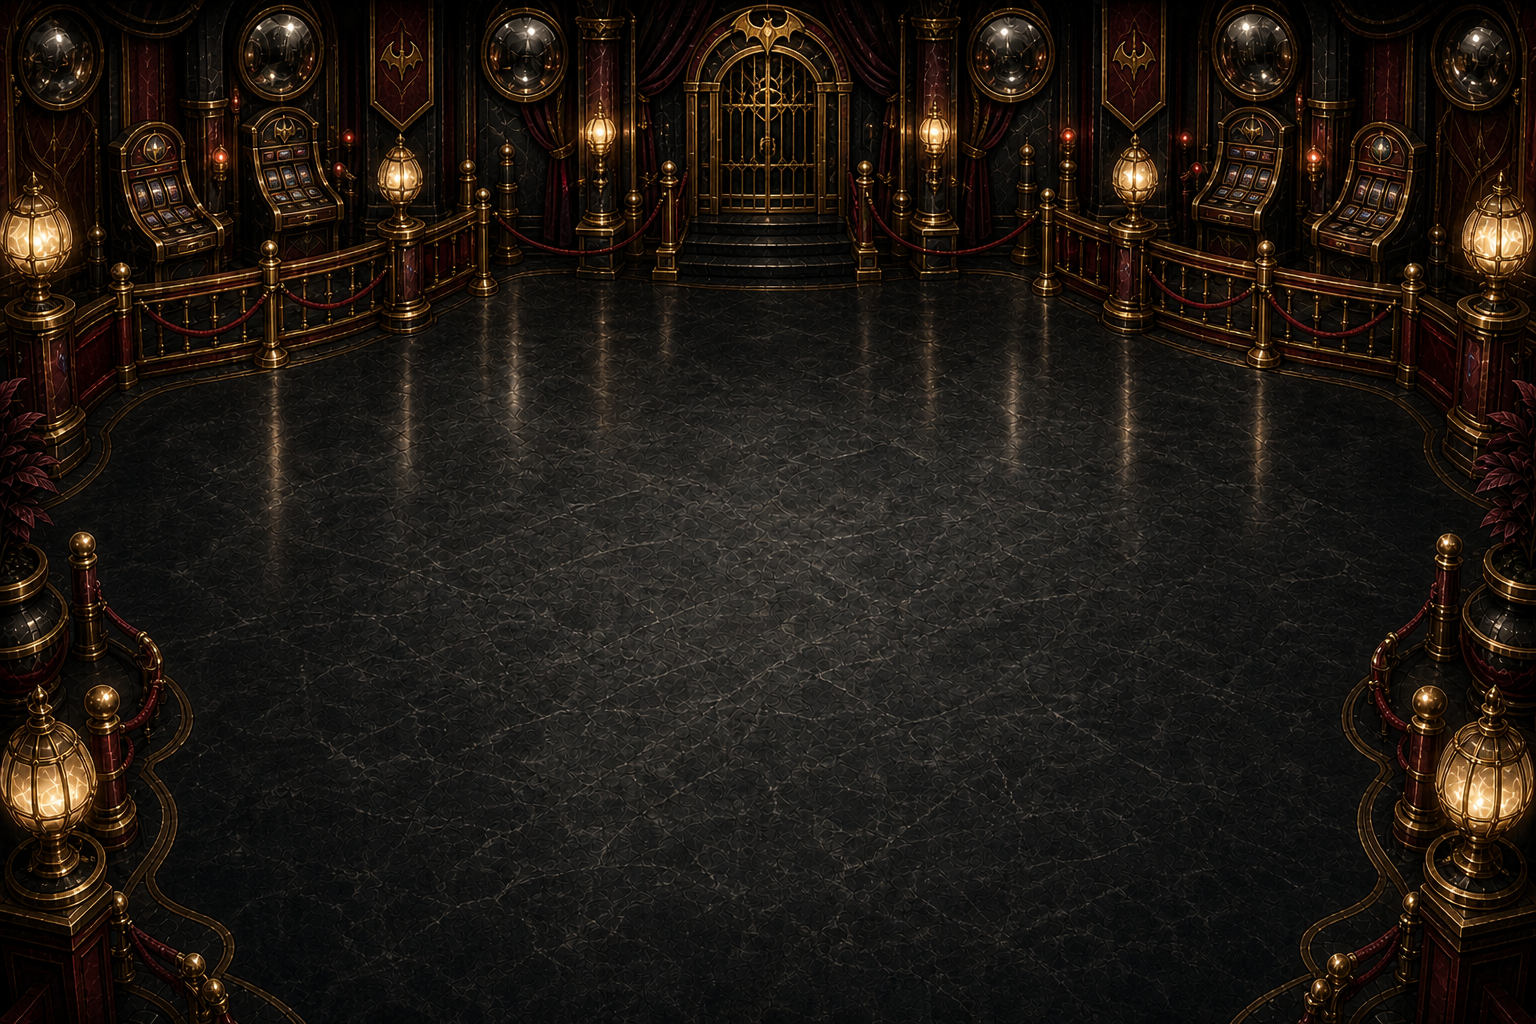
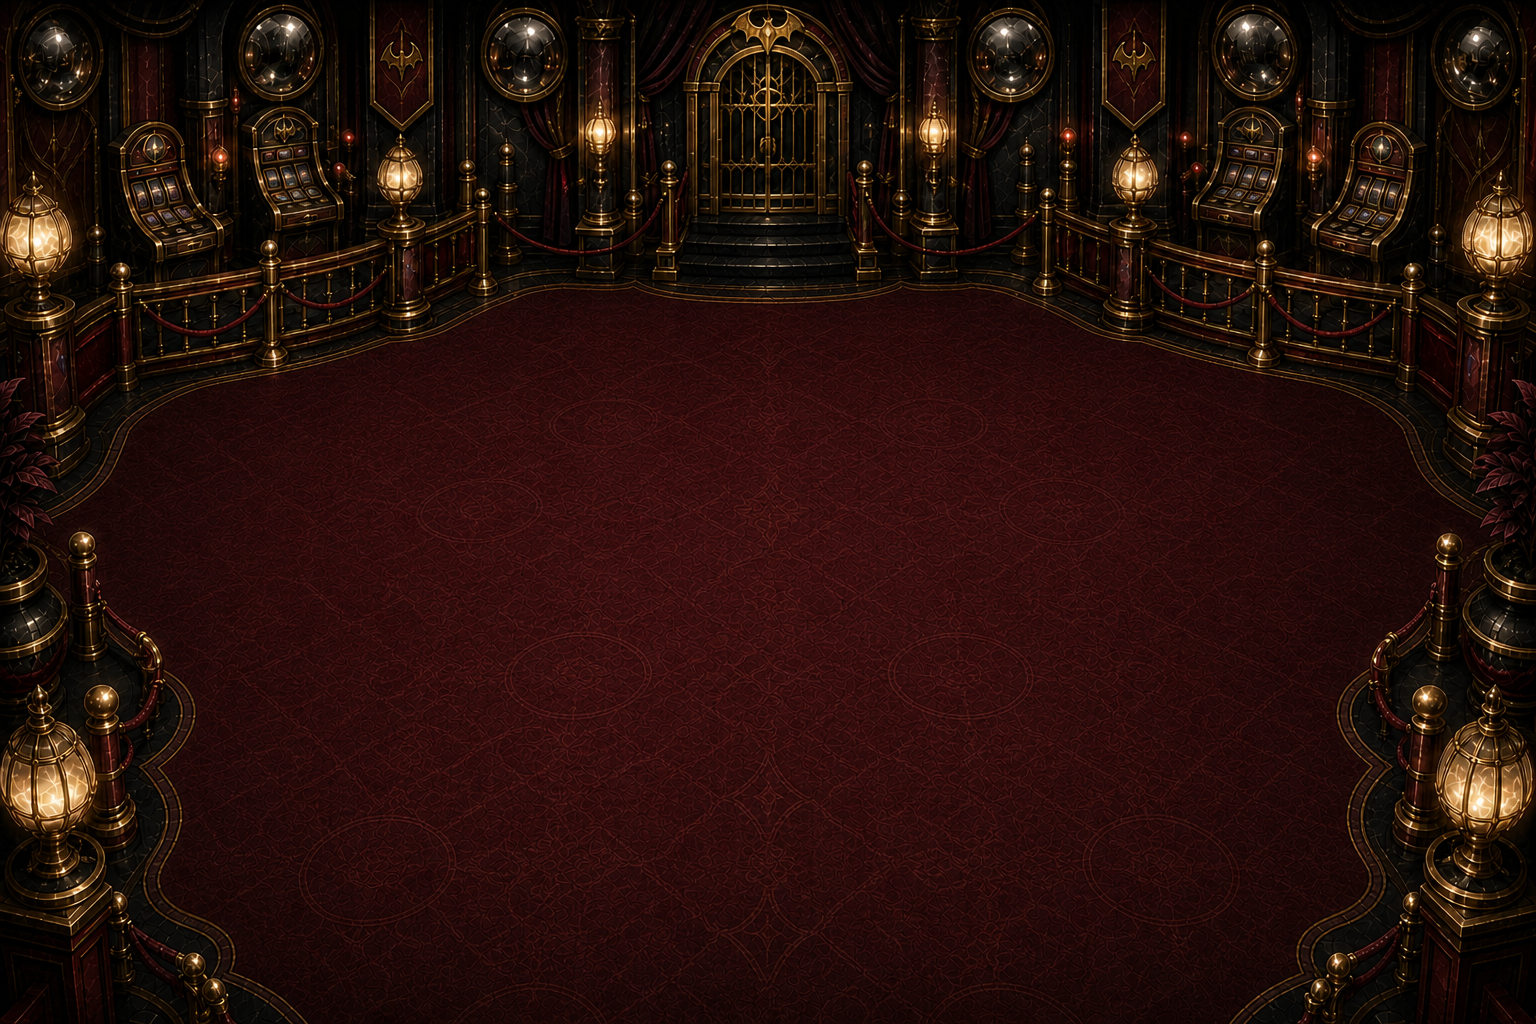
Fix floor asset chromakey and floor three gameplay color

diff --git a/src/app.js b/src/app.js
@@ -5298,7 +5298,10 @@ function handAssetReady(key) {
 }
 
 function shouldChromaKeyAsset(key) {
-  return /^floor\d{2}CardBack$/.test(String(key));
+  const assetKey = String(key);
+  if (/^floor\d{2}CardBack$/.test(assetKey)) return true;
+  if (/^(map|tableScene):floor\d{2}:(table|bossTable|bossPortrait|elevator|decoration)$/.test(assetKey)) return true;
+  return false;
 }
 
 function handCardAssetsReady() {